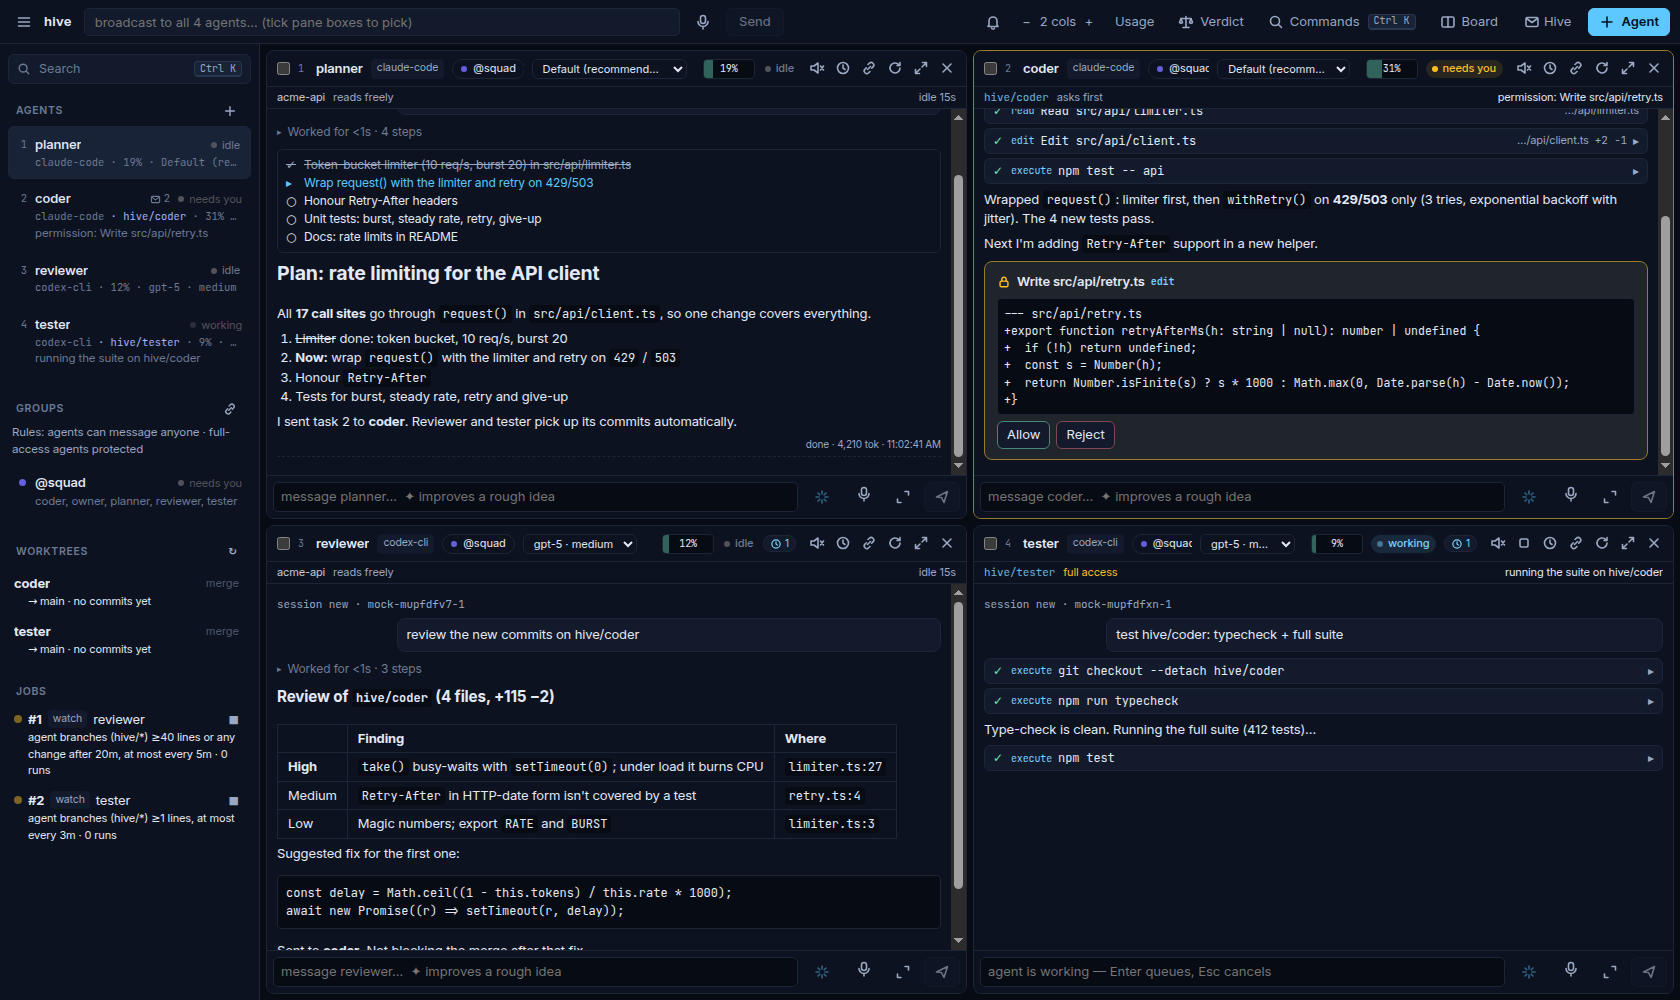
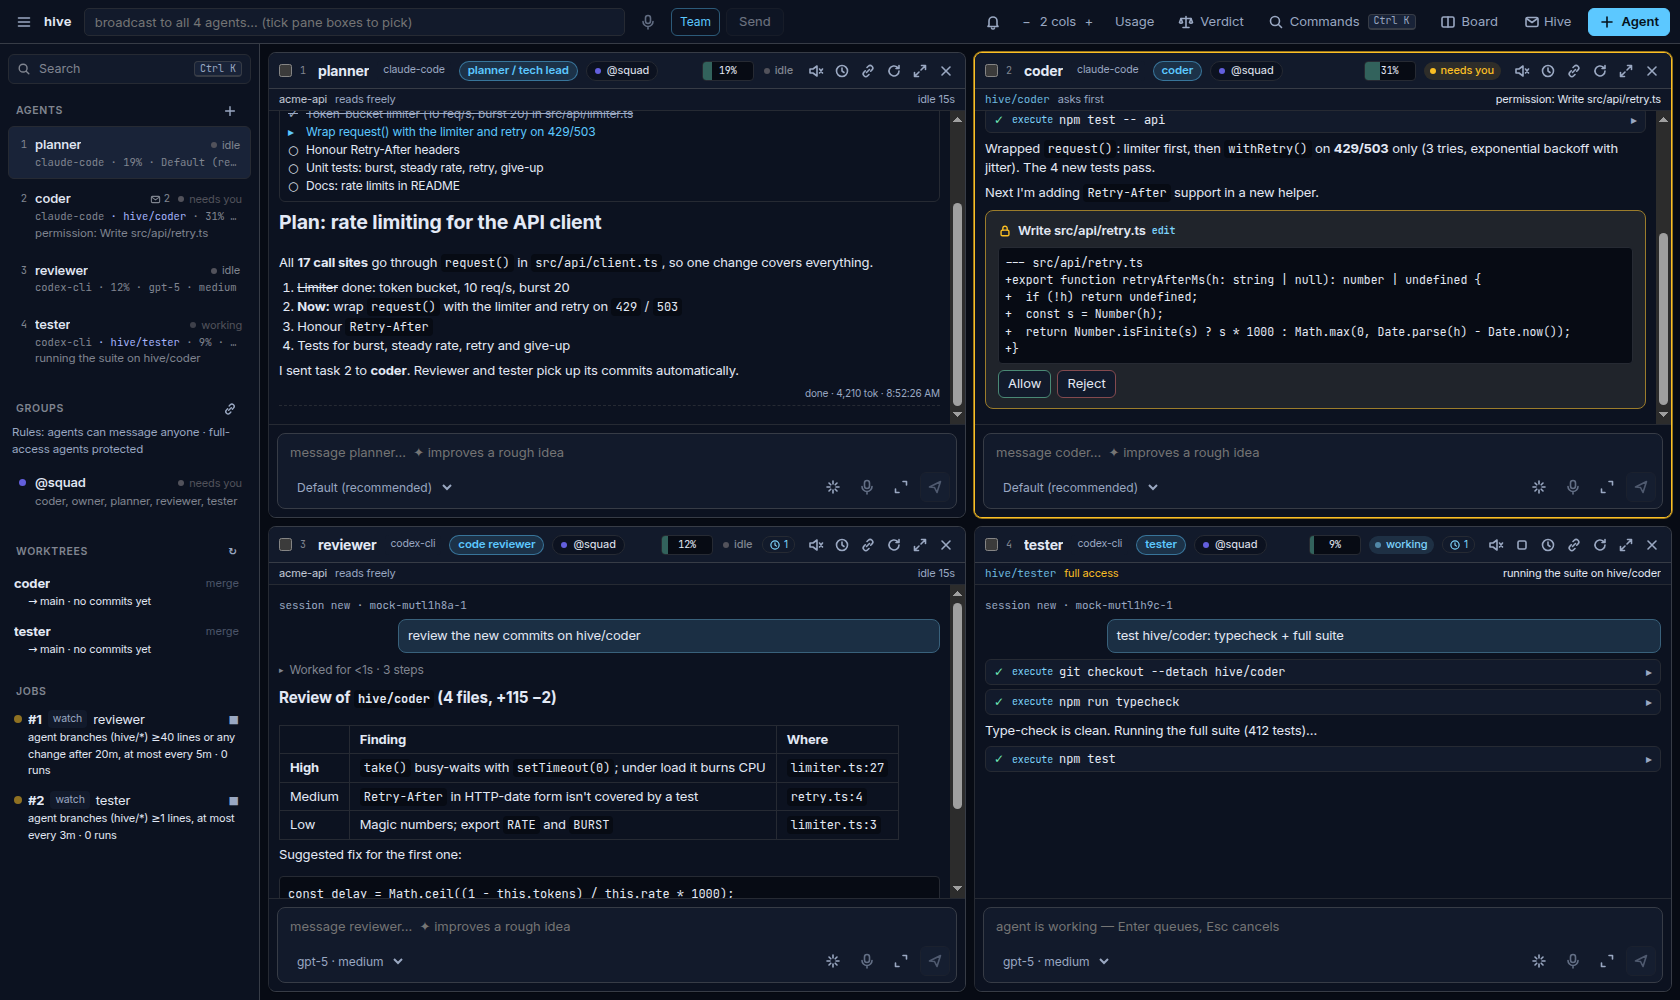
Audit pass 6: UI coherence, control-by-control value and workflow review (findings, evidence, regenerated screenshots)
Claude-Session: https://claude.ai/code/session_01GaSiy6MDS5x4aarkayHYr4

Changed region(s): [[0.1548, 0.0, 1.0, 1.0]]

diff --git a/audit/FINDINGS.md b/audit/FINDINGS.md
@@ -42,6 +42,104 @@ Passes: 1 (2026-09-30, commit e5d0908); 2 and 3 (2026-10-01, commits a4f18dc →
 
 Disproved: pass 1 suspected "Ctrl+9 doesn't scroll in vertical layout". The cause was UX-001; Ctrl+9 works.
 
+## Pass 6 (2026-10-04): UI coherence, control-by-control value, orchestration workflows
+
+Review only; nothing was changed in this pass. Method: the demo session (`test/showcase.ts`, mock agents in demo mode), a scenario script (dialogs, six agents, 1280×720 and 1920×1080, 3 columns, a 25-turn transcript, every drawer tab, light theme, 120 % zoom), the existing UI test (passes), and a code trace of the control inventory, the agent state model and `styles.css`. **Only the mock agent was exercised; no real vendor is signed in on this machine.** Evidence: `audit/evidence/pass6/`, `docs/screenshots/` (regenerated).
+
+### Assessment
+
+The pane grid, palette and "Worked for" fold are close to T3 Code and herdr, and the main journeys (team broadcast, mail hand-off, review groups, jobs, ✦ improve, dictation with a fake server) work in the UI test. What doesn't hold up is the layer under them: `styles.css` has grown as five override passes on top of each other, so earlier fixes silently stopped applying (UX-004 regressed), the four agent states are computed in four places with different rules, and roughly a third of the controls are duplicates of another control. Narrow panes (3 columns, the docked Hive panel, 1280 px windows) are where the UI melts: headers clip, tables break into syllables, the panel's tabs wrap to three lines.
+
+### Register
+
+| ID | Title | Sev. | Conf. | Verdict |
+|---|---|---|---|---|
+| BUG-005 | **UX-004 regressed**: pane header clips at narrow widths again (role badge, context meter, state pill and the "idle 15s" text cut off at 3 columns / 1280 px and beside the docked Hive panel) because the container-query rules at `styles.css:362/368` (`.kind`, `.ctx` hidden) are overridden by the later unconditional `display: inline-flex` at :682 | High | High (screenshots r08, drawer-docked) | fix: move the hide rules after the alignment pass, or scope them with higher specificity; re-add the 3-column probe to `test/ui.ts` |
+| BUG-006 | Markdown tables inside a transcript break words into syllables at pane widths under ~450 px ("Hig h", "Med ium", "limite r.ts:27") | Medium | High (drawer-docked.png) | fix: `white-space: nowrap` on the first/last columns and `overflow-x: auto` on `.md table` wrappers |
+| BUG-007 | Docked Hive panel: the seven tabs wrap onto two rows and "Since you left" onto three lines at the default dock width (640 px) | Medium | High | fix: shorter tab labels ("Report", "Inbox", "Learn", "Board", "Mail", "Usage", "Accounts") or an overflow menu; dock width min 560 |
+| BUG-008 | The "undo" button after ✦ improve is squeezed to 30 px wide: `.composer-bar > button.ghost` (0,2,1) at :1226 beats `.composer-bar .improve-undo { width: auto }` (0,2,0) at :1233. The same specificity order kills the ✦ accent hover at :1232 | Medium | High (code) | fix: give the composer rules one specificity level; drop the `>` child combinator |
+| BUG-009 | Palette command "Zoom in / out / reset" does nothing (`run: () => {}`, App.tsx:231): picking it closes the palette and that's all | Low | High | fix: make it zoom in, and list Ctrl+- / Ctrl+0 in the hint; or remove it |
+| BUG-010 | Ctrl+J opens the board but can't close it: the overlay gate (App.tsx:128-134) only lets Ctrl+K and Ctrl+I through while an overlay is on top. Ctrl+Shift+M / Ctrl+Shift+I also trigger maximize / drawer (no Shift check) | Low | High | fix: add `board`+J to `closesTop`; check `!e.shiftKey` on M and I |
+| BUG-011 | An agent that calls `hive_status({status:"waiting"})` turns its pane to **needs you** with nothing to answer, until its next status write; the window title and the ready button ignore it, so the header and the title disagree | Medium | High (code: state.tsx:25 vs App.tsx:107) | fix: derive "needs you" from open asks only; show a tool-set "waiting" as a note |
+| BUG-012 | "asleep" agents have no branch in `agentState`, so a closed session shows **done** or **idle** for up to a second, then flips to **stopped** when it leaves the snapshot; `OtherAgents` and `format.ts statusLabel` use their own raw-status tables | Low | Medium | fix: one `agentState` for every surface; map asleep → stopped |
+| BUG-013 | The window title counts only open cards and ready marks; an agent in **error** or the tool-set waiting state never shows in the title, although the sidebar and palette show it | Low | High | fix: use `rollup()` as the comment at state.tsx:34 already intends |
+| BUG-014 | Palette rows can show a stale state while the palette is open: `items` is memoised on `[q, names, actions]` (Palette.tsx) | Low | Medium | fix: include the states in the deps or read them in render |
+| BUG-015 | `.pane.ready` (done panes) gets a *weaker* border than idle panes: :610 sets `border-color: var(--border)` after the contrast pass set `--border-strong` for every pane; `.pane.linked` gets a mismatched left edge from :440 | Low | High | fix: remove the two leftovers |
+| BUG-016 | Every dark theme's hand-picked `--border`, `--border-strong` and `--text-3` are dead: `:root:not([data-tone="light"])` at :1242 (same specificity, later) replaces them with a colour-mix | Low | High | fix: compute the mix once per theme, or move :1242 before the theme blocks |
+| BUG-017 | Accounts tab shows two loading lines at once ("checking…" and "checking each agent (a few seconds)…") | Low | High (r06-drawer-accounts) | fix: one |
+| UX-010 | **Design tokens are defined four times** (`:root` at :1, :406, :515, :669) with aliases that trap authors: `--bg3` is `--bg-2`, not `--bg-3`, so hover uses two different shades (:64 vs :772); `var()` fallbacks disagree with the tokens (`--r-3, 10px` while `--r-3` is 8px); `--bg-4` is defined in every theme and never used; `--magenta` is never themed | Medium | High | fix: one `:root` block with the new names; delete the old aliases after a rename pass |
+| UX-011 | **No type or size scale**: 14 distinct font sizes (five between 10 and 12.5 px), pills built five ways (8, 9, 10, 999 px, calc), control heights 18/20/22/26/28/30/34, two icon classes with different baselines (`.ico` −1 px, `.icon` −3 px), `.pane-head .st` set to 20 px and 18 px in the same pass (:682 vs :691) | Medium | High | fix: tokens `--fs-1..4`, `--h-ctl` 28 / `--h-chip` 20 / `--h-icon` 30, one `.pill` class, one icon class |
+| UX-012 | **Five state-indicator systems** coexist: `.dot.*` (sidebar legacy, `pulse` easing), `.st-*` (pills, `hive-pulse` steps), `.badge.ready`, `.vc/.vstat` (verdict), `.kb-dot-*` (board), `.voice-badge` (`voice-pulse`); the same state has different dot sizes (6/7/8 px) and animations | Medium | High | fix: one `StatePill`/dot component and one keyframe, used by sidebar, palette, board and verdict |
+| UX-013 | Pane header carries up to 11 items (checkbox, index, name, kind, role badge, group chip, context meter, state pill, queued badge, job badge, 7 action icons). herdr shows name + state. Kind ("claude-code") is 10 px grey text nobody reads; role badge and group chip are both pills and read as the same thing | Medium | High (03-squad) | fix: name · role badge · state pill in the header; kind, branch, policy, idle time, context in the sub row; actions behind one "…" menu except Stop and Maximize |
+| UX-014 | Top bar has 13 controls. "Team / Each" is a highlighted toggle next to Send and reads as an app-wide mode; "✓ 2 ready" is the only green button; "Usage" is a chip whose meaning is unclear until hovered | Medium | Medium | fix: Team/Each as a small select inside the broadcast box; Verdict and Board into the palette only (both are in it already); keep ☰, broadcast, ready, bell, columns, Hive, + Agent |
+| UX-015 | Composer placeholder does two jobs: "message planner… ✦ improves a rough idea". While working it changes to "agent is working — Enter queues, Esc cancels", so the box's own name disappears | Low | High | fix: "message planner…" only; ✦ hint in the button's tooltip; working state shown as a small line above the box |
+| UX-016 | Tool rows repeat the verb: "read **Read** src/api/client.ts", "execute npm test". T3 Code shows one verb. While a turn is running each tool is a full bordered card; only after the turn do they fold | Low | High (05-focus-coder) | fix: drop the kind label when the title starts with the same verb; render in-flight tools as the same compact lines the fold uses |
+| UX-017 | Duplicate controls with the same effect: sidebar toggle ×4 (Ctrl+B, Ctrl+\, ☰, palette), pane cycle ×2 pairs, link agents ×6 entry points, verdict ×5, "Retry" and "Restart (resumes the session)" call the same function, chime toggle in two places with slightly different behaviour | Low | High | verdicts: keep Ctrl+B + ☰, drop Ctrl+\; keep Ctrl+Tab, drop Ctrl+Shift+[ ]; one "Retry"; one Verdict button; link via drag + pane icon + Group N |
+| UX-018 | Three dialogs have no Close/Cancel button (Token stats, Group chat, Verdict view); `CardEditor` builds its own modal without the focus trap; `Modal` renders no ✕ | Low | High | fix: ✕ in `Modal` for all |
+| UX-019 | "Delete group" (red) sits next to "Send" in the group chat; one mis-click away | Low | High (07-group-chat) | fix: move to a "…" menu or the top-right with a confirm |
+| UX-020 | Sidebar job card wording is a sentence fragment: "agent branches (hive/*) ≥40 lines or any change after 20m, at most every 5m · 0 runs" | Low | High | fix: two lines: "watch · agent branches" / "≥40 lines or 20 min · every 5 min · 0 runs" |
+| UX-021 | Add agent "Model" field placeholder is a paragraph ("default (or type a model name; the list fills in once this agent has…") and gets cut off | Low | High (r02) | fix: placeholder "default"; the explanation as a hint line under the field |
+| UX-022 | Clickable rows without keyboard access or a role: group `li` (Links.tsx:340), mail rows (Drawer.tsx:374), stats rows (Stats.tsx:93); the "fresh session" button has no aria-label; `.dot` / `voice-pulse` / `.improve.busy` animations have no reduced-motion guard | Low | High | fix: `role="button"` + `onActivate`; one `prefers-reduced-motion` block |
+| UX-023 | Palette is unreachable by keyboard while the board, the code view or any dialog is open (overlay gate) | Low | High | fix: allow Ctrl+K through the gate; the palette can sit above a dialog |
+| PERF-002 | Four independent pollers: usage chip (10 s) and usage tab (15 s) both call `rpc("usage")`; worktrees 8 s; board 4 s; group chat 2 s, all while visible | Low | High | fix: one usage subscription pushed by the backend; board/worktrees refresh on events |
+| IDEA-008 | Inspiration credits: typesafe.ai (System One / Jev), laya, Hermes and Handy are named in the README history but not credited anywhere in the repo; T3 Code, herdr and Odysseus are | Low | High | add an "Inspiration" list to docs/COMPARISON.md |
+
+### Transcript versus the inspirations
+
+| Where | hive | T3 Code / herdr | Deliberate? |
+|---|---|---|---|
+| Tool calls during a turn | full-width bordered cards, one per tool, with the kind label repeated in the title | one compact line per tool, collapsed into "Worked for N" as soon as the turn ends | no (UX-016) |
+| Your own messages | full-width tinted box indented 18 % from the left | small right-aligned bubble (T3) / plain line (herdr) | undocumented; keep, but document it |
+| Turn footer | dashed rule + "done · 4,210 tok · 8:52 AM" on every turn | nothing per turn; tokens in a status bar | undocumented; the token count is useful, the dashed rule and timestamp are noise |
+| Pane header | 11 items (UX-013) | name, state, one action | no |
+| Focused pane | accent border + 1 px ring + 18 px glow (`:1245`), added by the contrast pass against the "no glows" rule at :403/:437/:606 | one accent edge | no; the comment and the rule disagree |
+| needs-you pane | amber border replaces the accent, so a focused pane that needs you shows amber only | herdr: state in the header, focus on the edge | undocumented |
+| Palette | matches: states, shortcuts, filter words, footer hints | | yes |
+| Fold ("Worked for 1m 12s · 4 steps") | matches after the turn ends | | yes |
+
+### Control inventory
+
+Mapped: 24 palette actions (+ 5 code, + 9 voice), 18 global shortcuts, 15 top-bar controls, 6 sidebar sections, 11 pane-header controls, 7 composer controls, 7 drawer tabs with 20 body controls, 13 dialogs (full table in `audit/evidence/pass6/inventory.md`). Verdicts: **keep** 78 · **fix** 9 (BUG-008/009/010, UX-015/016/018/019/020/021) · **merge** 11 (UX-017) · **relabel** 3 (drawer tabs, Usage chip, Team toggle) · **remove** 2 (Ctrl+\, Ctrl+Shift+[ ]). Tested in the interface: everything `test/ui.ts` covers plus the scenario script; inspected in code only: device panes, verdict view, teacher dock, voice setup.
+
+### Journeys
+
+| Journey | Result |
+|---|---|
+| Returning operator (6 agents, mixed states) | sidebar, palette and headers agree on the state; the title shows "✓ 1 ready"; the needs-you pane is amber. Fine at 1680 px; headers clip at 1280 px (BUG-005) |
+| One task end to end (mock) | permission card inline, Allow/Reject, result on disk: passes in `test/ui.ts` |
+| Hand-off A → B over mail | B woken, mail shown in both panes with the sender: passes in `test/ui.ts` |
+| Team broadcast | lead chosen, wait notices in the others, no turn spent: passes in `test/ui.ts` and `test/backend.ts`. The lead's prompt label "Team task · you lead · …" is clear; the others' notice is one grey mono line that is easy to miss |
+| Improvements → coder → owner | briefing rule only; not exercised with a real model (mock can't follow it). **Unverified.** |
+| Jobs (loop / interval / watch) | schedule, run history, stop: pass in `test/ui.ts` and `test/scheduler.ts`; the sidebar card wording is UX-020 |
+| Review group, held mail | Release / Edit / Drop: passes |
+| Dictation (fake Whisper) | text lands in the hovered pane, not sent: passes |
+| Interrupt / backend restart | Esc cancels; backend crash auto-restarts and panes reconnect: passes. Ready marks and `starting` survive a restart (state trace §6); a turn killed mid-flight gets no done mark, by design |
+| Automatic decisions | lead choice (rule), reflection (rule + model), held mail (rule), declined prompt after 15 min (rule), usage-limit pause (rule). All visible as a toast, a notice or an inbox item. None is reversible from the UI except held mail (Release). A small fast model (System One / Jev) would not improve any of these: they are rules with no judgement in them; the one judgement call, picking the lead, is a 5-line regex on roles, and a wrong pick costs one turn. **Recommendation: no.** laya-style token saving: the only automatic spend is reflection and ✦ improve, both already capped; nothing to save |
+
+### Load and failure states
+
+No agents, one, six: fine (r01, 03, r07). 25-turn transcript: renders without lag; no virtualisation, so hundreds of tool calls would need a check with a real vendor. Vendor not installed / not signed in: Accounts tab says so with the command to copy (BUG-017 aside). Backend restart: covered. 120 % zoom at 1680 px with six panes: transcripts become 150 px tall (r15); acceptable. Light theme: fine. Both 760 px and 1280 px: 760 is the phone layout (fine); 1280 is BUG-005.
+
+### Design rules (proposed)
+
+1. One `:root` token block; the old alias names are removed after a rename pass.
+2. Type scale: 11 / 12 / 13 / 15 px. Chips 20 px, controls 28 px, composer icons 30 px, radii 4 / 6 / 8 / 999.
+3. One `StatePill` component and one pulse keyframe for every surface.
+4. Header = name · role · state · Stop · Maximize · "…". Everything else in the sub row.
+5. In-flight tool calls look like folded ones: one line each.
+6. Only the focused pane has an accent edge; needs-you is a header colour, not a border.
+7. Every dialog has ✕; every clickable row has a role and a key handler.
+8. Container queries, not media queries, decide what a pane hides; they live after every other pane rule.
+
+### Order of work
+
+1. BUG-005, BUG-006, BUG-007 (narrow widths) and BUG-008 (undo): one CSS commit, with the 3-column probe back in `test/ui.ts`.
+2. UX-010 + UX-011 + UX-012 + BUG-015/016: collapse `styles.css` to one token block and one state system. This is the big one; do it before any screen-level polish.
+3. BUG-011/012/013/014: one `agentState` everywhere, title via `rollup`.
+4. UX-013 + UX-016: header diet and tool-line rendering.
+5. UX-014/015/017/018/019/020/021: control cleanup.
+6. BUG-009/010, UX-022/023, PERF-002, IDEA-008.
+
 ## Pass 5 (2026-10-01)
 
 Security review of permission prompts and agent-to-agent reach, plus a review of `hive tui`, the CLI and the phone-access setup scripts. Items not fixed yet are being fixed on the core and UI branches.

diff --git a/audit/evidence/pass6/inventory.md b/audit/evidence/pass6/inventory.md
@@ -1,0 +1,51 @@
+# Pass 6 control inventory (2026-10-04)
+
+Source: code trace of `src/ui/renderer/` at commit 6a0851e. Verdict legend: K keep · F fix · M merge · R relabel · X remove.
+
+## Palette actions (App.tsx:199-233, Code.tsx:163, Voice.tsx:899)
+| id | label | keys | does | verdict |
+|---|---|---|---|---|
+| new | New agent | Ctrl+N | AddAgentDialog | K |
+| team | Set up a team (recipes) | | RecipesDialog | K |
+| verdict | Verdict | | openVerdict | K (drop the top-bar button, UX-014) |
+| skills | Run a skill | Ctrl+Shift+K | SkillsDialog | K |
+| link | Link agents so they can talk | | LinkDialog | M (UX-017) |
+| inbox | Inbox and messages waiting for review | Ctrl+I | drawer (open only) | K |
+| usage | Usage, limits and spending guards | | drawer usage | K |
+| git-init | Make this folder a git project | | rpc gitInit | K |
+| learn | Memory and learning | | drawer learn | K |
+| stats | Token stats | | StatsDialog | K |
+| broadcast | Message all agents | Ctrl+Shift+B | focus broadcast box | K |
+| sidebar | Toggle sidebar | Ctrl+B | | K |
+| max | Maximize / restore | Ctrl+M | | K |
+| layout | Layout: next (now cur) | | cycles orientation | K |
+| board | Board | Ctrl+J | open only (BUG-010) | F |
+| browser / android | Open browser / Android device | | device panes | K |
+| theme-* ×7, density-* ×2 | | | saveLayout | K |
+| hover | Hover to focus panes | | | K |
+| ping | Finish chime | | | M with the bell (UX-017) |
+| zoomin | Zoom in / out / reset | | **no-op** (BUG-009) | F |
+| code-open / code-browse / code-changes | Open file / Browse code / Code changes | Ctrl+P | code view | K |
+| teacher-start, explain-toggle | | | | K |
+| talk-/voice-/speak- per agent, voice-setup, voice-send, voice-ptt, voice-hands, voice-auto, voice-stop | | | | K |
+
+## Global shortcuts (App.tsx:120-188)
+Ctrl+1..9 K · Ctrl+Tab K · Ctrl+Shift+[ ] X (duplicate) · Ctrl+N K · Ctrl+Shift+B K · Ctrl+B K · Ctrl+\ X (duplicate) · Ctrl+= - 0 K · Ctrl+Shift+K K · Ctrl+K K (let through every overlay, UX-023) · Ctrl+J F (BUG-010) · Ctrl+I F (Shift check) · Ctrl+P K · Ctrl+M F (Shift check) · Esc (overlay) K · PTT Ctrl+Shift+Space K · global Ctrl+Alt+H K.
+
+## Top bar (App.tsx:418-498)
+☰ K · broadcast input K · mic K · Team/Each R (UX-014) · Send K · Group N K · ✕ N clear K · ✓ N ready K · bell K · − cols + K · Usage chip R · Verdict X (in palette) · Commands K · Board X (in palette, Ctrl+J) · Hive K · + Agent K.
+
+## Pane header (Pane.tsx:64-118)
+checkbox K · index K · name (drag) K · kind → sub row (UX-013) · role badge K · group chip → sub row · context meter → sub row · state pill K · queued/jobs badges → sub row · speaker (voice) → "…" · Stop K · Clock (job) → "…" · Link → "…" · Fresh session → "…" (+ aria-label) · Maximize K · ✕ K.
+
+## Composer (Pane.tsx:756-780)
+config selects K · undo F (BUG-008) · ✦ K · mic K · expand K · send K · "/" menu K.
+
+## Sidebar
+Search K · + K · agent items K · groups (link icon M, scope toggle K, guard checkbox K, group li F a11y) · other agents "open" K · worktrees refresh/merge K · jobs items K, stop K.
+
+## Drawer (Drawer.tsx)
+Tabs R (BUG-007) · refresh K · dock toggle K · ✕ K · report window K · accounts check again K, copy command K · usage pause/budget rows K · mail rows F a11y · blackboard filters/delete K · compose K · learning controls K · held list actions K.
+
+## Dialogs
+Add agent K (Model placeholder F, UX-021) · Job K (sidebar wording F, UX-020) · Link K · Group chat F (no close; Delete placement, UX-018/019) · Recipes K · Skills K · Prompt editor K · Stats F (no close) · Verdict setup K · Verdict view F (no close) · Board K · Card editor F (own modal, no trap) · Job runs K · Start teacher K · Voice menu / setup K.

diff --git a/audit/PASS-LOG.md b/audit/PASS-LOG.md
@@ -98,3 +98,15 @@ All open items fixed or mitigated:
 - **UX-009**: top bar no longer wraps, found while adding the Verdict button.
 
 Verified with `npm test` (17 suites), the UI test (new: Inbox lists held mail; verdict flow), the layout probe at 1366/1280 and the perf bench. What remains is by design: an agent you allow to run any command runs as you (SEC-004 residual).
+
+## Pass 6: 2026-10-04 (UI coherence, control value, orchestration workflows; review only)
+
+**Scope.** The review prompt of 2026-10-03: inspirations T3 Code, herdr, Odysseus; control inventory; transcript versus inspiration; state model; journeys; load states; design rules. No product code changed.
+
+**Method.** Demo session (`test/showcase.ts`) regenerated `docs/screenshots/`; a scenario script took 18 more shots (dialogs, six agents, 1920 / 1280 / 3 columns, 25-turn transcript, every drawer tab, light theme, zoom); three code traces (controls, state model, `styles.css` override layers); `npm run test:ui` passes. Mock agent only: no vendor is signed in here.
+
+**Found.** 13 bugs (BUG-005..017), 14 usability items (UX-010..023), PERF-002, IDEA-008; see FINDINGS.md "Pass 6". Headline: UX-004 (narrow header) regressed because a later CSS pass overrode the container queries; `styles.css` has four token blocks and five state systems; the four agent states are computed in four places.
+
+**Not tested.** Real vendors, Windows scaling, screen readers, hundreds of tool calls with a real adapter, device panes, the improvements → coder → owner rule with a real model.
+
+**Next.** Fix in the order given in FINDINGS.md; start with the narrow-width CSS and the stylesheet collapse.
